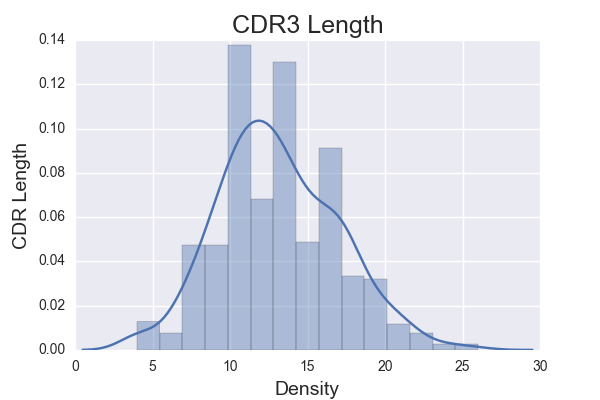
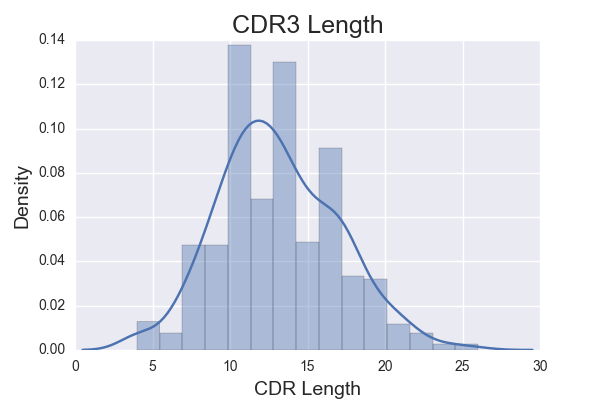
fixed labelling

Changed region(s): [[0.0, 0.36, 0.06, 0.63], [0.42, 0.93, 0.6, 1.0]]

diff --git a/abpytools/analysis/cdr_length.py b/abpytools/analysis/cdr_length.py
@@ -42,8 +42,8 @@ class CDRLength:
         if self._only_CDR3:
             plt.title('CDR3 Length', size=18)
             sns.distplot(cdrs[:, 2].astype(int), hist=self._hist)
-            plt.xlabel('Density', size=14)
-            plt.ylabel('CDR Length', size=14)
+            plt.ylabel('Density', size=14)
+            plt.xlabel('CDR Length', size=14)
         else:
             f, ax = plt.subplots(nrows=1, ncols=3, figsize=(10, 6))
             ax = ax.ravel()
